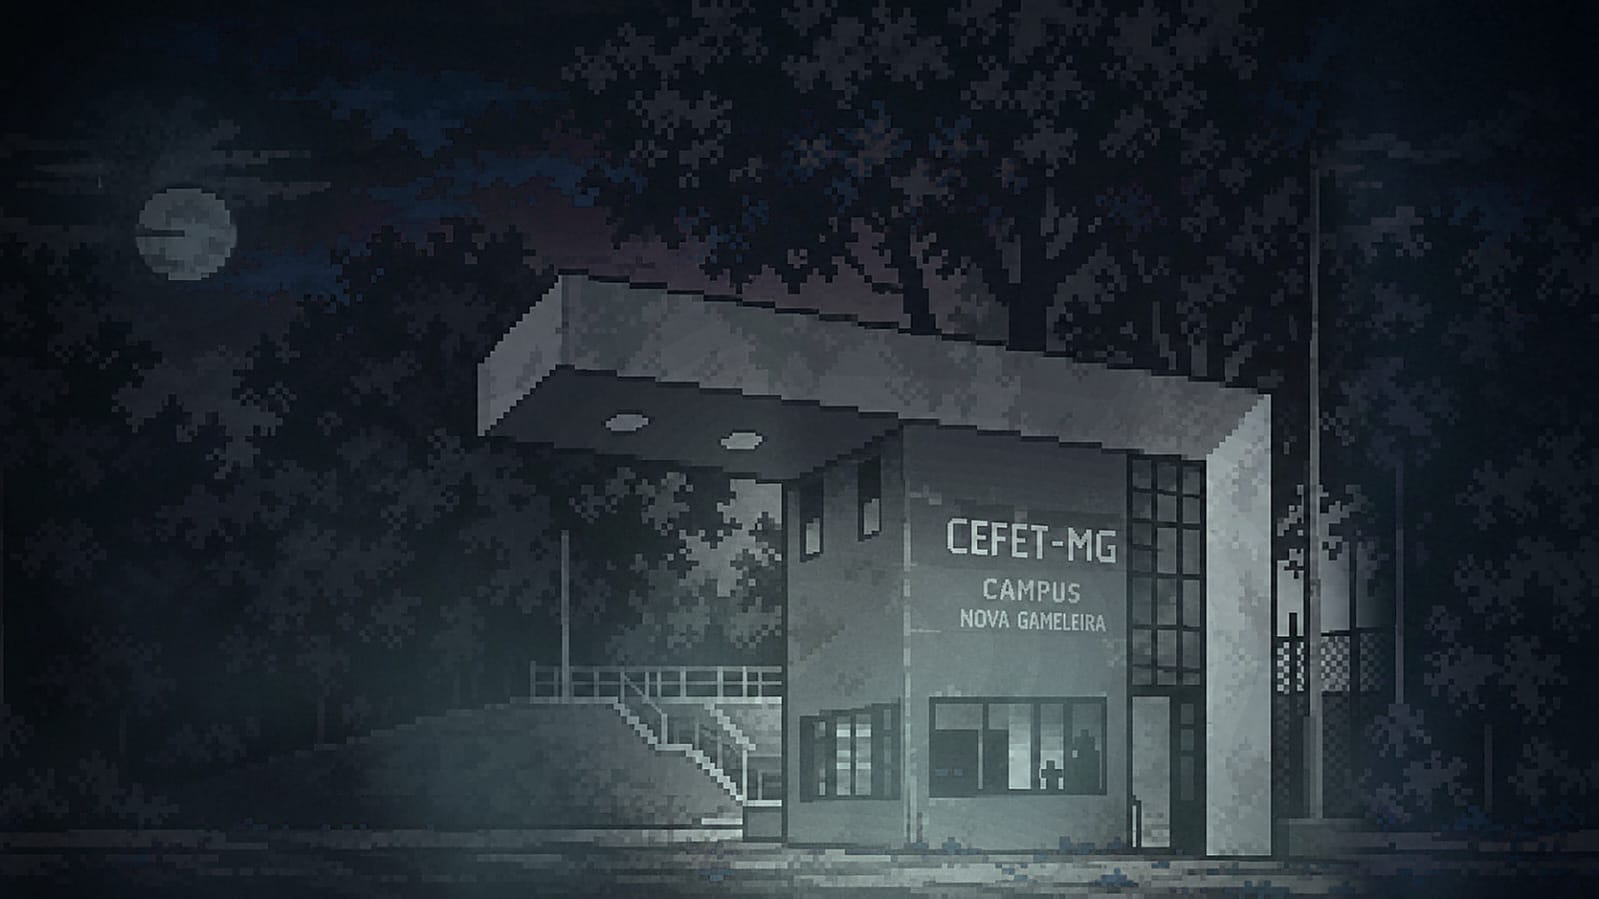
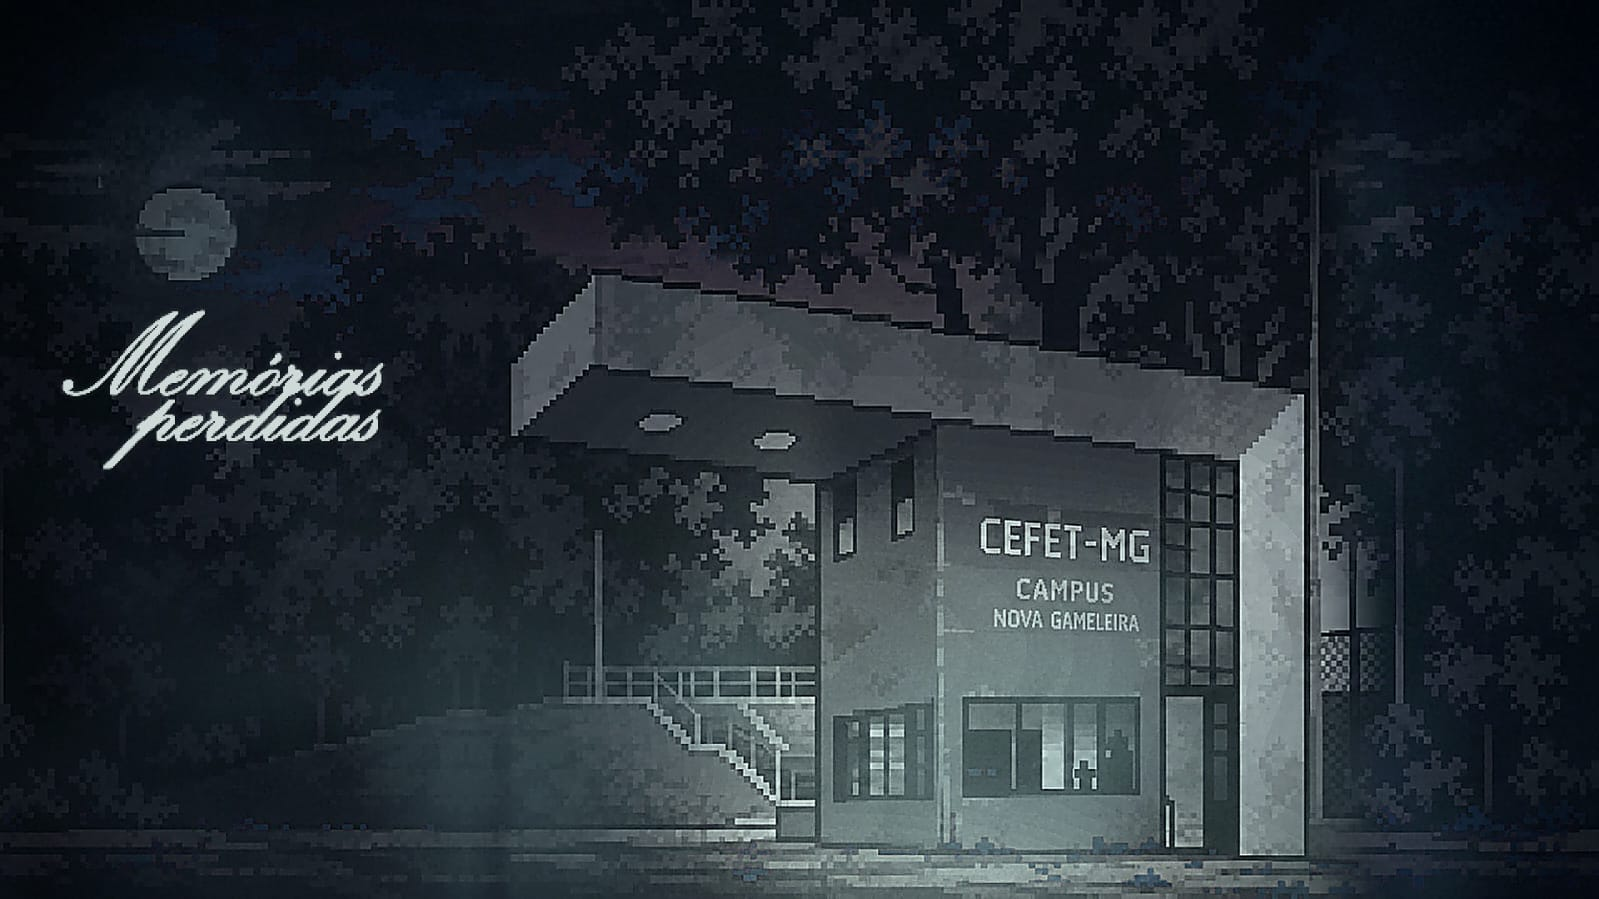
alterações nome jogo

Changed region(s): [[0.2758, 0.2803, 0.8274, 1.0], [0.0306, 0.3426, 0.2452, 0.5295]]

diff --git a/index.html b/index.html
@@ -5,7 +5,7 @@
     <meta name="viewport" content="width=device-width, initial-scale=1.0">
     <link rel="shortcut icon" href="imagens/imagem-favicon.png" type="image/x-icon">
     <link rel="stylesheet" href="index.css">
-    <title>Memorias</title>
+    <title>Memórias perdidas</title>
 </head>
 <body>
     
